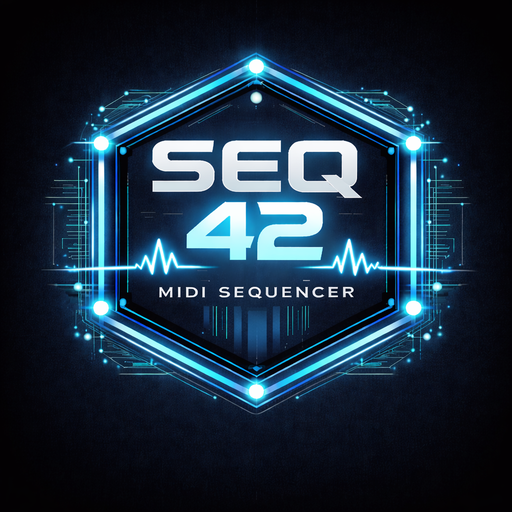
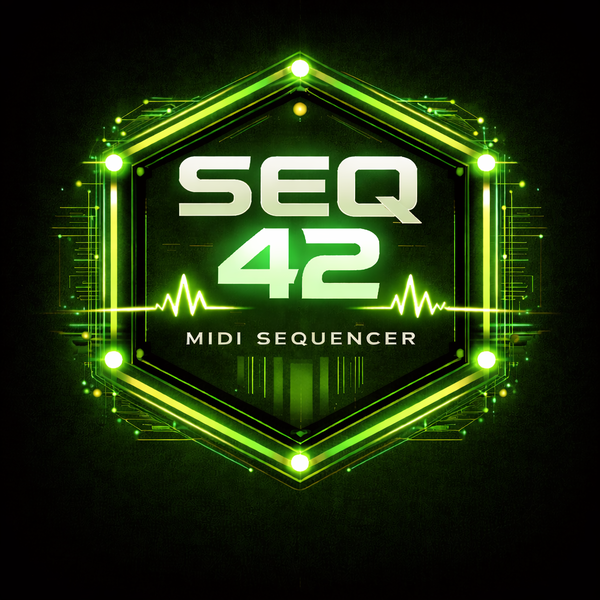
Update seq42 image color and size.

diff --git a/doc/help/help.html b/doc/help/help.html
@@ -24,7 +24,7 @@
       <td>
         <p>
           <a href="https://github.com/Stazed/seq42">
-            <img style="border: 2px solid; width: 400px; height: 435px;"
+            <img style="border: 2px solid; width: 600px; height: 600px;"
                  src="images/seq42.png"
                  alt="SEQ42 Logo" hspace="10">
           </a>
